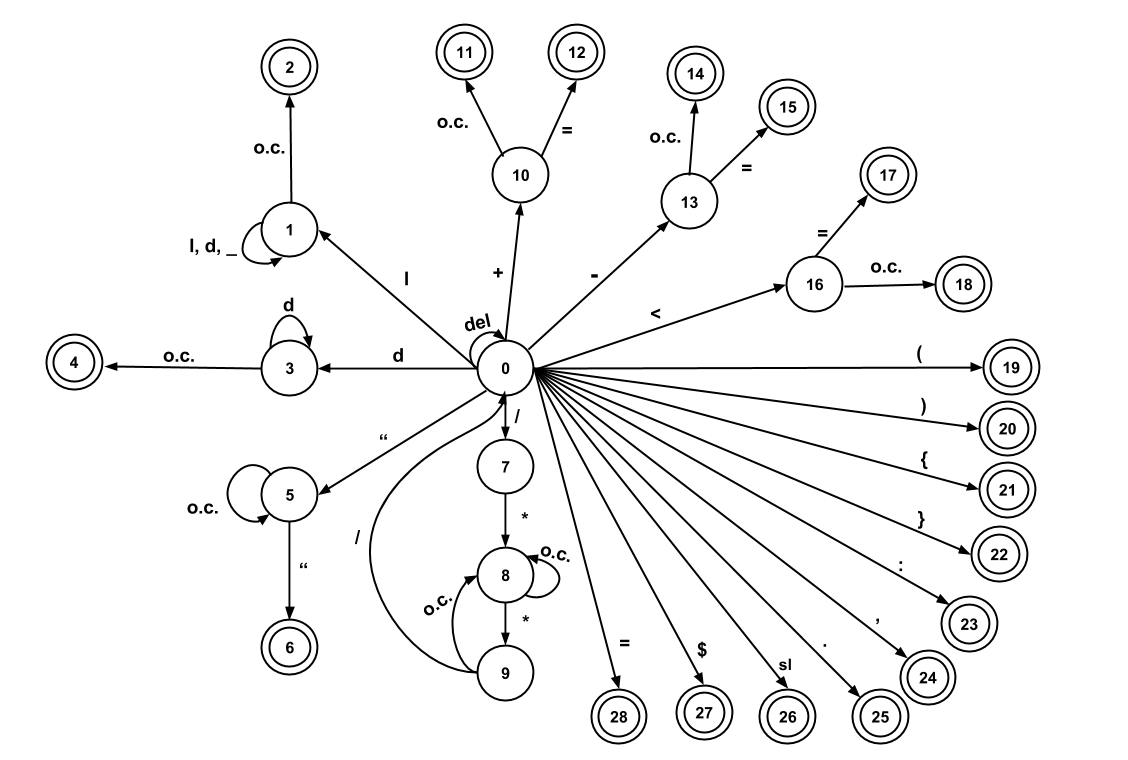
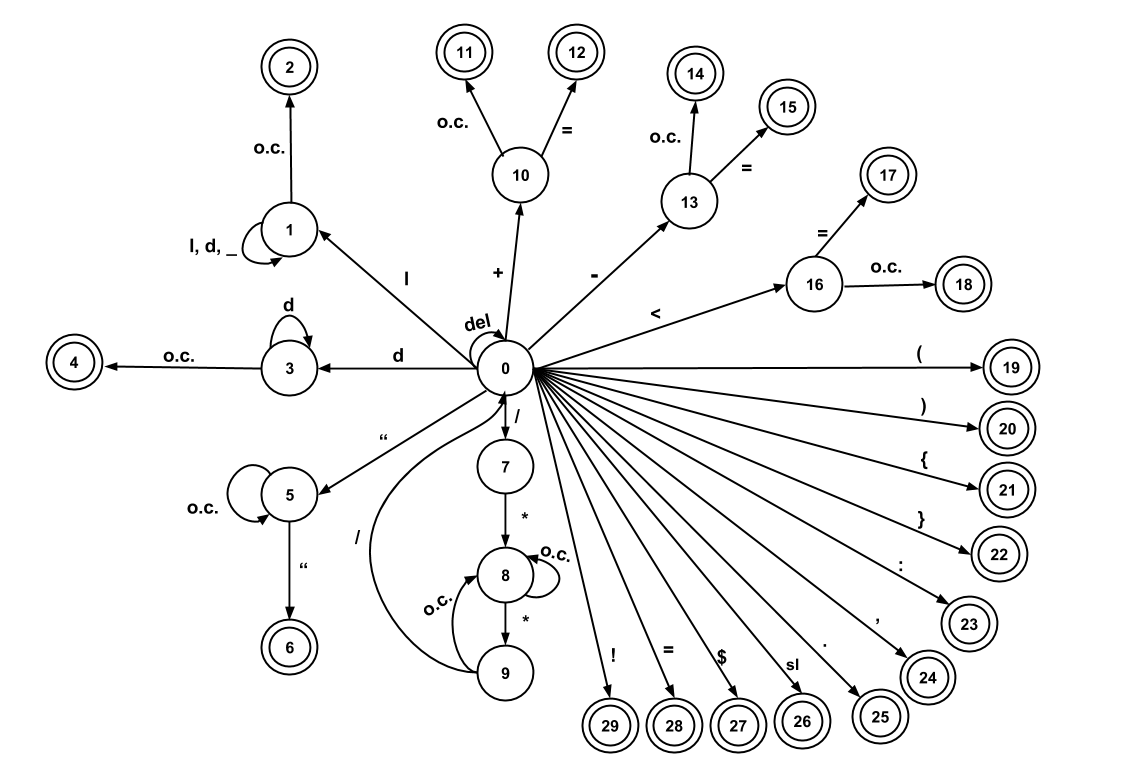
Añadido simbolo ! y corregidos errores en el lexico
Añadido OpLog ! y corregidos errores en el lexico. Actualizado automata,
gramatica y acciones semanticas.

Changed region(s): [[0.4654, 0.4842, 0.7447, 0.9987]]

diff --git a/lexico/AnalizadorLexico.java b/lexico/AnalizadorLexico.java
@@ -34,12 +34,13 @@ public class AnalizadorLexico {
 	private final int MENOSIGUAL = 3;
 
 	// Logicos
-	private final int IGUALIGUAL = 1;
-	private final int MENORIGUAL = 2;
+	private final int NEGACION = 1;
+        
+        // Relacion
+        private final int MENORIGUAL = 2;
 	private final int MENOR = 3;
 
-
-	public AnalizadorLexico(String ficheroALeer/*,Stack<TablaSimbolos> pilaTS*/){
+	public AnalizadorLexico(String ficheroALeer){
 		this.lineaActual = 0;
 		this.columnaActual = 0;
 		this.tokensLeidos = new ArrayList<Token>();
@@ -111,7 +112,7 @@ public class AnalizadorLexico {
 					estado = 10;
 					lexema += caracter;
 				}
-				else if(caracter.equals("=")){
+				else if(caracter.equals("-")){
 					estado = 13;
 					lexema += caracter;
 				}
@@ -185,6 +186,20 @@ public class AnalizadorLexico {
 					leido = true;
 					log.println("Lexema: "+lexema+"<");
 				}
+                                else if(caracter.equals("=")){
+					token = new OpAsig(IGUAL);
+					lexema = "=";
+					leido = true;
+					log.println("Lexema: "+lexema+"<");
+					leerCaracter();
+				}
+                                else if(caracter.equals("!")){
+					token = new OpLog(NEGACION);
+					lexema = "!";
+					leido = true;
+					log.println("Lexema: "+lexema+"<");
+					leerCaracter();
+				}
 				else{
 					// Error
 					System.out.println("Símbolo inesperado en la línea " + lineaActual + ", columna " + columnaActual);
@@ -229,7 +244,6 @@ public class AnalizadorLexico {
 				break;
 			case 4:
 				valor = Integer.parseInt(lexema);
-				// generarToken(TokenEntero,valor) { token = new TokenEntero(valor) }
 				token = new Entero(valor);
 				leido = true;
 				break;
@@ -242,7 +256,6 @@ public class AnalizadorLexico {
 				}
 				break;
 			case 6:
-				// generarToken(TokenCadena,lexema) { token = new TokenCadena(lexema) }
 				token = new Cadena(lexema);
 				leido = true;
 				break;
@@ -293,35 +306,35 @@ public class AnalizadorLexico {
 			case 13:
 				if(caracter.equals("=")){
 					lexema+="=";
-					estado = 14;
+					estado = 15;
 				}
 				else{
-					estado = 15;
+					estado = 14;
 				}
 				break;
 			case 14:
-				token = new OpLog(IGUALIGUAL);
+				token = new OpArit(RESTA);
 				leido = true;
 				break;
 			case 15:
-				token = new OpAsig(IGUAL);
+				token = new OpAsig(MENOSIGUAL);
 				leido = true;
 				break;
 			case 16:
 				if(caracter.equals("=")){
 					lexema+="=";
-					estado = 17;
+					estado = 18;
 				}
 				else{
-					estado = 18;
+					estado = 17;
 				}
 				break;
 			case 17:
-				token = new OpLog(MENORIGUAL);
+				token = new OpRel(MENORIGUAL);
 				leido = true;
 				break;
 			case 18:
-				token = new OpLog(MENOR);
+				token = new OpRel(MENOR);
 				leido = true;
 				break;
 			default:
@@ -367,7 +380,6 @@ public class AnalizadorLexico {
 				log.close();
 			}
 		} catch (IOException e) {
-			// TODO Auto-generated catch block
 			System.out.println("Error al leer el fichero");
 			e.printStackTrace();
 		}

diff --git a/global/token/OpRel.java b/global/token/OpRel.java
@@ -1,0 +1,18 @@
+package global.token;
+
+/* 
+ * == / != / < / > / <= / >= / 
+ * Implementados: <= /
+ */
+public class OpRel implements Token {
+	private int codigo;
+
+	public OpRel(int cod){
+		this.codigo = cod;
+	}
+
+	@Override
+	public String aString() {
+		return "<OpRel," + codigo + ">";
+	}
+}

diff --git a/global/token/OpArit.java b/global/token/OpArit.java
@@ -1,9 +1,11 @@
 package global.token;
 
+/* 
+ * + / - / * / / / % /
+ * Implementados: + / - /
+ */
 public class OpArit implements Token {
 	private int codigo;
-	private final int SUMA = 1;
-	private final int RESTA = 2;
 
 	public OpArit(int cod){
 		this.codigo = cod;

diff --git a/global/token/OpAsig.java b/global/token/OpAsig.java
@@ -1,5 +1,9 @@
 package global.token;
 
+/* 
+ * = / += / -= / *= / /= / %= / 
+ * Implementados: = / += / -= /
+ */
 public class OpAsig implements Token {
 	private int codigo;
 

diff --git a/global/token/OpLog.java b/global/token/OpLog.java
@@ -1,5 +1,9 @@
 package global.token;
 
+/* 
+ * && / || / ! /
+ * Implementados: ! /
+ */
 public class OpLog implements Token {
 	private int codigo;
 
